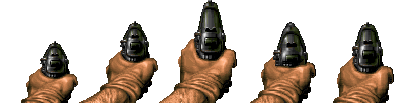
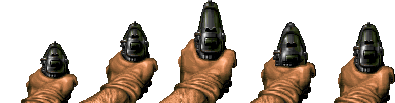
Changed texture animation to use texture atlas indexing.

diff --git a/Wolfenfels/Player.cpp b/Wolfenfels/Player.cpp
@@ -13,16 +13,11 @@ Player::Player()
 	collision_rect = Rect(pos.x-coll_width/2.0, pos.y-coll_height/2.0, coll_width, coll_height);
 	ComputeView();
 	SetSpriteCoords();
-	weapon_anim.animation = { TextureAnimation::FrameDuration{0, 0.03},
-							TextureAnimation::FrameDuration{ 1, 0.03 }, 
-							TextureAnimation::FrameDuration{ 2, 0.06 }, 
-							TextureAnimation::FrameDuration{ 3, 0.06 }, 
-							TextureAnimation::FrameDuration{ 4, 0.06 }};
-	weapon_anim.UV_rects.push_back(Rect(0.0f, 0.0f, 0.2, 1.0));
-	weapon_anim.UV_rects.push_back(Rect(0.2f, 0.0f, 0.2, 1.0));
-	weapon_anim.UV_rects.push_back(Rect(0.4f, 0.0f, 0.2, 1.0));
-	weapon_anim.UV_rects.push_back(Rect(0.605f, 0.0f, 0.2, 1.0));
-	weapon_anim.UV_rects.push_back(Rect(0.805f, 0.0f, 0.2, 1.0));
+	weapon_anim.m_animation = { TextureAnimation::TexDuration{ glm::vec2{ 0, 0}, 0.03},
+							TextureAnimation::TexDuration{ glm::vec2{ 1, 0}, 0.03 },
+							TextureAnimation::TexDuration{ glm::vec2{ 2, 0}, 0.06 },
+							TextureAnimation::TexDuration{ glm::vec2{ 3, 0}, 0.06 },
+							TextureAnimation::TexDuration{ glm::vec2{ 4, 0}, 0.06 }};
 	weapon_anim.duration = 0.24;
 }
 

diff --git a/Wolfenfels/Texture/TextureAtlas.cpp b/Wolfenfels/Texture/TextureAtlas.cpp
@@ -13,17 +13,12 @@ array<GLfloat, 8> TextureAtlas::getUVcoords(glm::vec2 & index)
 	const GLfloat PIXEL_WIDTH = 1.0f / (GLfloat)m_width;
 	const GLfloat PIXEL_HEIGHT = 1.0f / (GLfloat)m_height;
 
-	GLfloat xMin = (index.x * singleTexWidth) + 0.5 * PIXEL_WIDTH;
+	GLfloat xMin = (index.x * singleTexWidth) + 0.5f * PIXEL_WIDTH;
 	GLfloat xMax = (xMin + singleTexWidth) - PIXEL_WIDTH;
 
-	GLfloat yMax = (texPerCol - index.y) * singleTexHeight - 0.5 * PIXEL_HEIGHT;
+	GLfloat yMax = (texPerCol - index.y) * singleTexHeight - 0.5f * PIXEL_HEIGHT;
 	GLfloat yMin = (yMax - singleTexHeight) + PIXEL_HEIGHT;
 	// (half) a pixel needs to be added/subtracted to make sure the coordinates lie in middle of pixel (no edge bleeding)
-
-	assert(xMin >= 0.5 * PIXEL_WIDTH);
-	assert(xMax <= 1 - 0.5 * PIXEL_WIDTH);
-	assert(yMin >= 0.5 * PIXEL_HEIGHT);
-	assert(yMax <= 1 - 0.5 * PIXEL_HEIGHT);
 
 
 	return { xMin, yMin,

diff --git a/Wolfenfels/TextureAnimation.cpp b/Wolfenfels/TextureAnimation.cpp
@@ -27,13 +27,15 @@ array<float, 8> TextureAnimation::GetCurrentUV()
 	if (current_time >= 0) {
 		double pos_help = 0;
 		int current_frame = 0;
-		// this loop intends to find the current image depending on the current animation time
 		while (pos_help < current_time) {
-			pos_help += animation[current_frame].duration;
+			pos_help += m_animation[current_frame].duration;
 			current_frame++;
 		}
-		int current_image = animation[current_frame - 1].frame;
-		return UV_rects[current_image].AsArray();
+		glm::vec2 index = m_animation[current_frame - 1].texIndex;
+
+		return m_texAtlas->getUVcoords(index);
+
+		//return UV_rects[current_image].AsArray();
 	}
 	else {// return zero array
 		array<float, 8> zeros{ 0 };

diff --git a/Wolfenfels/TextureAnimation.h b/Wolfenfels/TextureAnimation.h
@@ -5,14 +5,16 @@
 #include "glm.hpp"
 #include "Utils.h"
 
+#include "Texture\TextureAtlas.h"
+
 using namespace std;
 
 class TextureAnimation
 {
 public:
 
-	struct FrameDuration {
-		unsigned int frame;
+	struct TexDuration {
+		glm::vec2 texIndex;
 		double duration;
 	};
 
@@ -26,7 +28,8 @@ public:
 
 	double current_time = 0;
 	double duration;
-	vector<Rect> UV_rects;
-	vector<FrameDuration> animation;
+	//vector<Rect> UV_rects;
+	TextureAtlas* m_texAtlas;
+	vector<TexDuration> m_animation;
 };
 

diff --git a/Wolfenfels/Renderer.cpp b/Wolfenfels/Renderer.cpp
@@ -12,7 +12,7 @@ Renderer::Renderer(Stage & stage, Player & player, Enemy & enemy)
 	bg_vao = VAllocBG(stage);
 	stage_walls_vao = VAllocStageWalls(stage);
 
-	TextureAtlas* player_texture = new TextureAtlas("Assets/pistol.png", 1, 5);
+	TextureAtlas* player_texture = new TextureAtlas("Assets/pistol.png", 5, 1);
 	m_textures.push_back(player_texture);
 	player_vao = VAllocPlayersprite(player);
 

diff --git a/Wolfenfels/Engine.cpp b/Wolfenfels/Engine.cpp
@@ -70,7 +70,9 @@ bool Engine::Init()
 
 void Engine::GameLoop()
 {
+	Player player = Player();
 	Renderer renderer(stage, player, stage.enemies[0]);
+	player.weapon_anim.m_texAtlas = (TextureAtlas*)renderer.m_textures[1];
 
 	double elapsed = 0;
 	const double delta_time = 1./128;

diff --git a/Wolfenfels/Engine.h b/Wolfenfels/Engine.h
@@ -28,7 +28,6 @@ public:
 	string ReadShaderGLSL(string filename);
 	void CreateShaders();
 
-	Player player;
 	Stage stage;
 	CollisionHandler coll;
 
